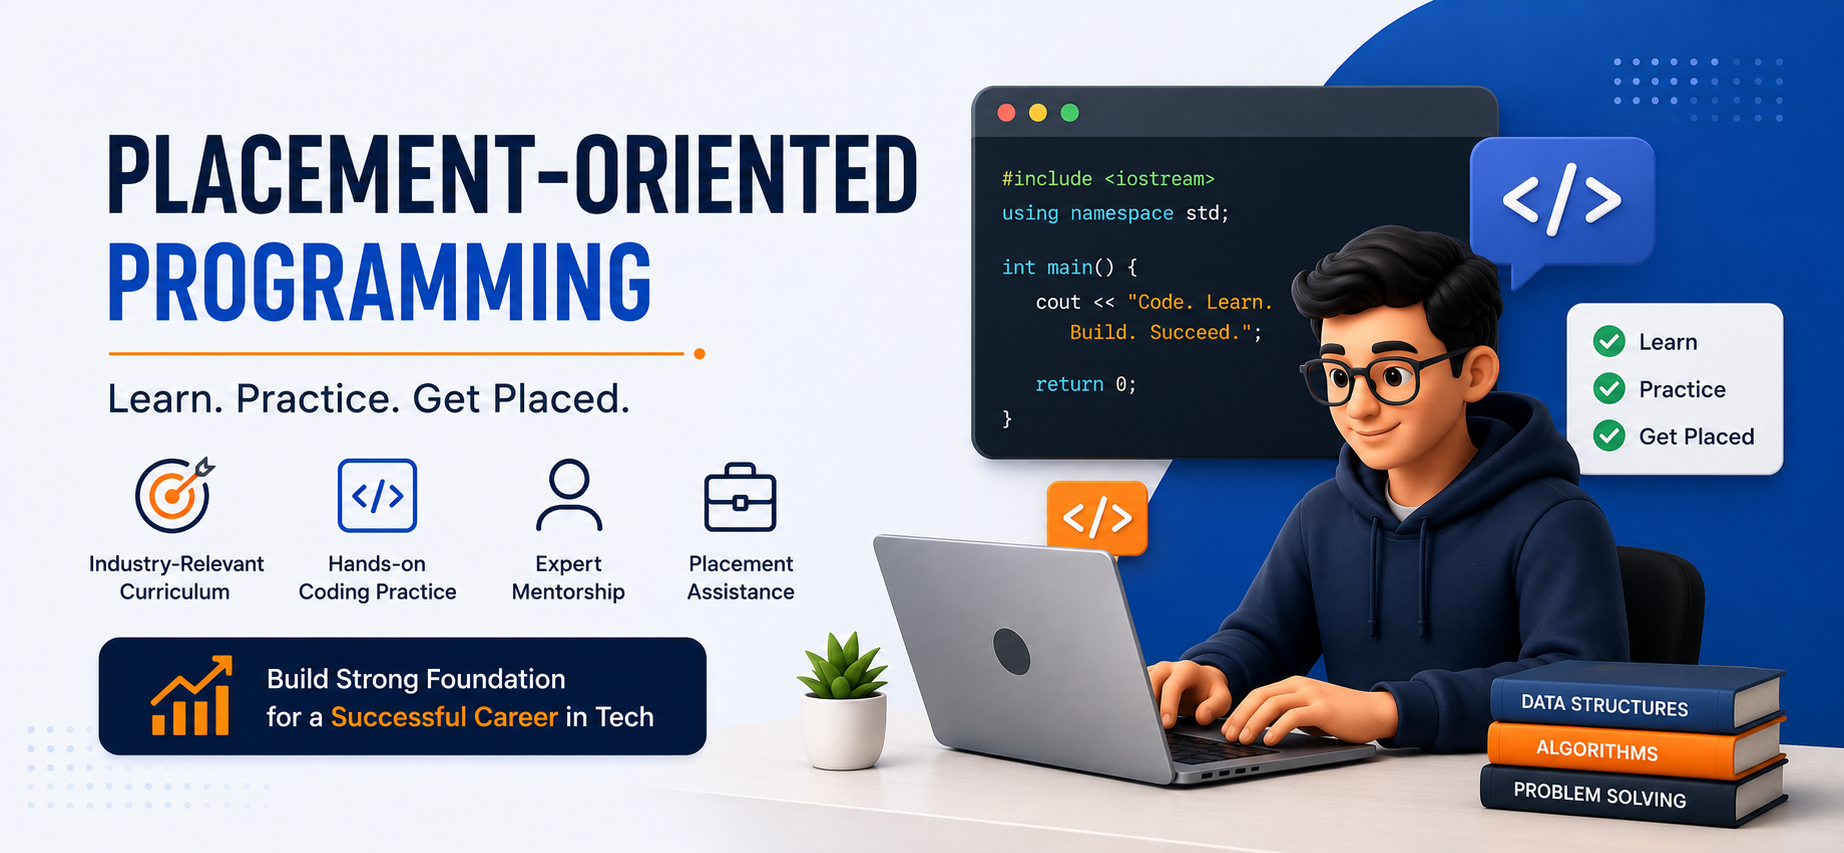
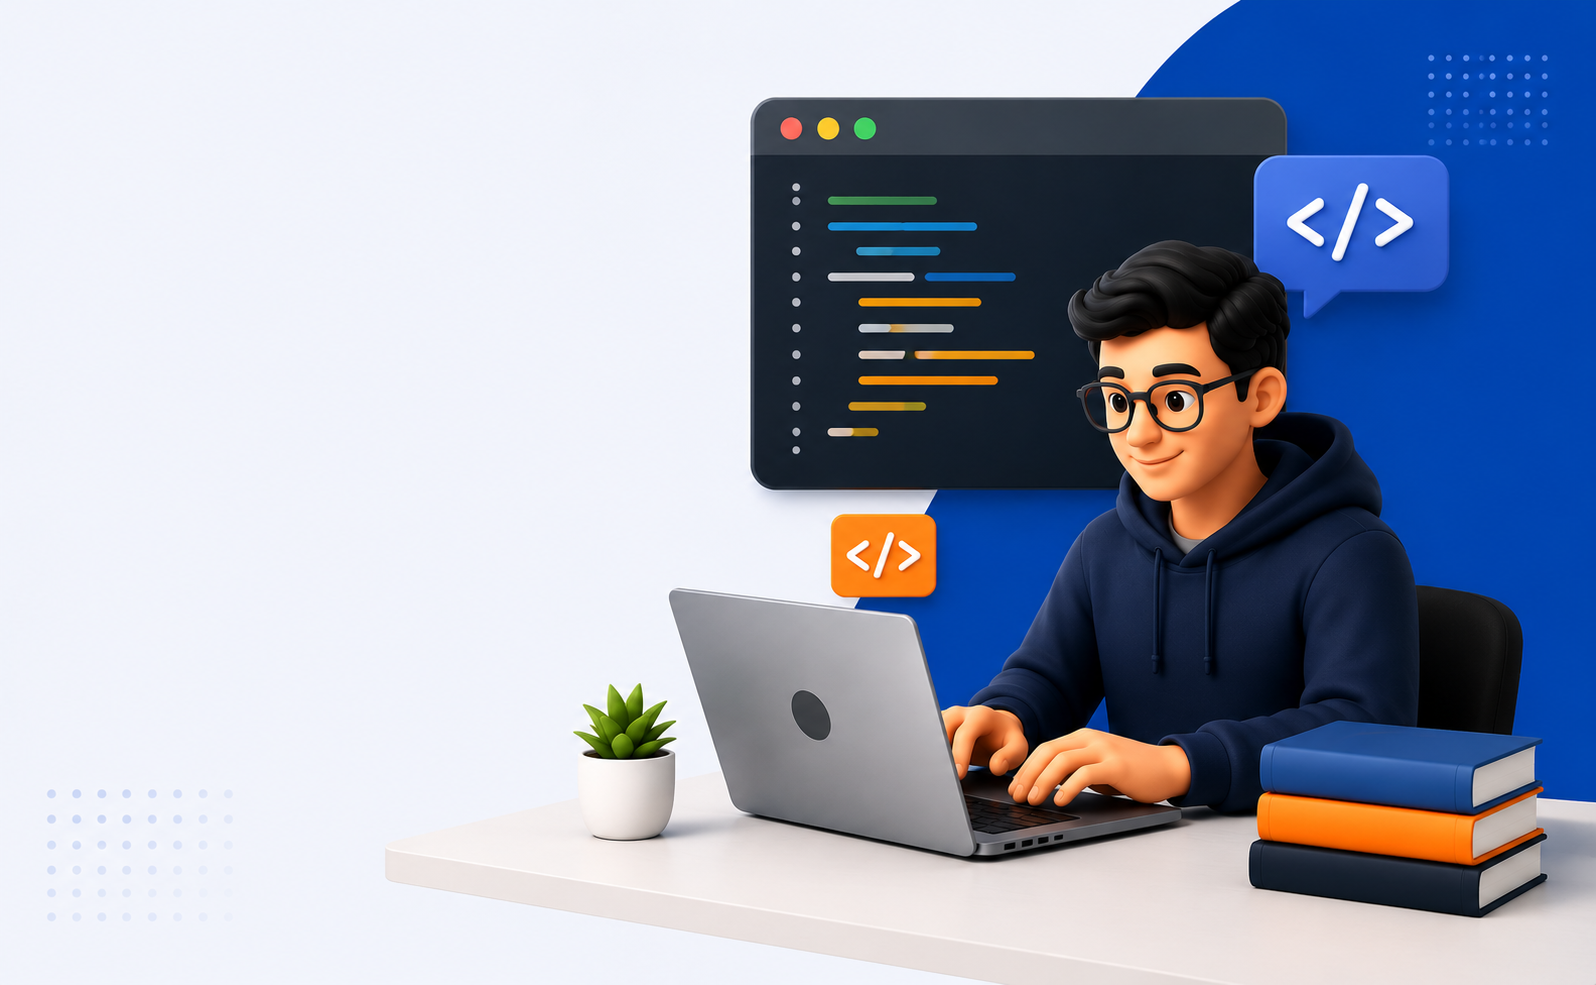
final mobile view

diff --git a/script.js b/script.js
@@ -12,11 +12,11 @@ window.addEventListener('scroll', () => {
     } else {
         navbar.classList.remove('scrolled');
     }
-    
+
     // Active link highlighting
     let current = '';
     const sections = document.querySelectorAll('section');
-    
+
     sections.forEach(section => {
         const sectionTop = section.offsetTop;
         const sectionHeight = section.clientHeight;
@@ -62,7 +62,7 @@ document.querySelectorAll('a[href^="#"]').forEach(anchor => {
         e.preventDefault();
         const targetId = this.getAttribute('href');
         if (targetId === '#') return;
-        
+
         const target = document.querySelector(targetId);
         if (target) {
             window.scrollTo({
@@ -79,7 +79,7 @@ const revealElements = document.querySelectorAll('.reveal-up, .reveal-left, .rev
 function reveal() {
     const windowHeight = window.innerHeight;
     const elementVisible = 100;
-    
+
     revealElements.forEach(element => {
         const elementTop = element.getBoundingClientRect().top;
         if (elementTop < windowHeight - elementVisible) {
@@ -98,29 +98,16 @@ const whatsappBtn = document.getElementById('whatsapp-btn');
 
 whatsappBtn.addEventListener('click', () => {
     const phoneNumber = '919730207552'; // Updated with official number
-    
+
     const message = `Hello The Programmers Academy,
 
 I would like to know more about your courses.
-
-Please share details regarding:
-
-• Placement-Oriented Programming
-• Full Stack Mobile App Development
-
-Including:
-- Course Syllabus
-- Fees
-- Duration
-- Batch Timings
-- Upcoming Batches
-- Placement Assistance
 
 Thank you.`;
 
     const encodedMessage = encodeURIComponent(message);
     const whatsappUrl = `https://wa.me/${phoneNumber}?text=${encodedMessage}`;
-    
+
     window.open(whatsappUrl, '_blank');
 });
 
@@ -130,13 +117,13 @@ const contactForm = document.getElementById('contact-form');
 if (contactForm) {
     contactForm.addEventListener('submit', (e) => {
         e.preventDefault();
-        
+
         let isValid = true;
-        
+
         const nameInput = document.getElementById('name');
         const phoneInput = document.getElementById('phone');
         const courseInput = document.getElementById('course');
-        
+
         const phonePattern = /^\+?[\d\s-]{10,}$/;
 
         if (!nameInput.value.trim()) {
@@ -167,7 +154,7 @@ if (contactForm) {
             const name = nameInput.value.trim();
             const phone = phoneInput.value.trim();
             const courseText = courseInput.options[courseInput.selectedIndex].text;
-            
+
             const whatsappNumber = '919730207552';
             const textMessage = `Hello The Programmers Academy,
 
@@ -179,15 +166,15 @@ I have submitted an enquiry via your website form:
 
             const encodedMessage = encodeURIComponent(textMessage);
             const whatsappUrl = `https://wa.me/${whatsappNumber}?text=${encodedMessage}`;
-            
+
             // Redirect to WhatsApp
             window.open(whatsappUrl, '_blank');
-            
+
             const btn = contactForm.querySelector('button');
             const originalHTML = btn.innerHTML;
             btn.innerHTML = '<i class="fas fa-spinner fa-spin"></i> Redirecting...';
             btn.disabled = true;
-            
+
             setTimeout(() => {
                 const toast = document.getElementById('toast');
                 if (toast) {
@@ -196,7 +183,7 @@ I have submitted an enquiry via your website form:
                         toast.classList.remove('show');
                     }, 4000);
                 }
-                
+
                 contactForm.reset();
                 btn.innerHTML = originalHTML;
                 btn.disabled = false;

diff --git a/index.html b/index.html
@@ -54,7 +54,7 @@
                 <div class="hero-image reveal-right">
                     <div class="illustration-container glass-panel" style="padding: 0; background: none; border: none;">
                         <img src="hero-image.png" alt="Programming Hero"
-                            style="width: 100%; height: 100%; object-fit: cover; display: block; border-radius: 30px; position: absolute; z-index: 0;">
+                            style="width: 100%; height: 100%; object-fit: cover; display: block; border-radius: 30px;">
                         <div class="floating-icon icon-1" style="z-index: 1;"><i class="fab fa-cuttlefish"></i></div>
                         <div class="floating-icon icon-2" style="z-index: 1;"><i class="fas fa-sitemap"></i></div>
                         <div class="floating-icon icon-3" style="z-index: 1;"><i class="fab fa-node-js"></i></div>

diff --git a/style.css b/style.css
@@ -1100,6 +1100,12 @@ a {
 }
 
 @media (max-width: 768px) {
+    .btn-primary, .btn-secondary, .btn-gold {
+        padding: 10px 20px;
+        font-size: 0.95rem;
+        white-space: nowrap;
+    }
+
     .navbar { padding: 0 20px; height: 75px; }
     .logo-img { height: 55px; }
     .navbar.scrolled .logo-img { height: 50px; }
@@ -1136,12 +1142,12 @@ a {
         border-radius: 10px;
     }
     
-    .icon-1 { left: 10px; top: 15%; }
-    .icon-2 { right: 10px; }
-    .icon-3 { left: 25px; }
-    .icon-5 { right: 10px; top: 15%; }
-    .icon-6 { right: 25px; }
-    .icon-7 { left: 10px; }
+    .icon-1 { left: -5px; top: 15%; }
+    .icon-2 { right: -5px; }
+    .icon-3 { left: 15px; }
+    .icon-5 { right: -5px; top: 15%; }
+    .icon-6 { right: 15px; }
+    .icon-7 { left: -5px; }
     
     .nav-link {
         font-size: 1.2rem;
